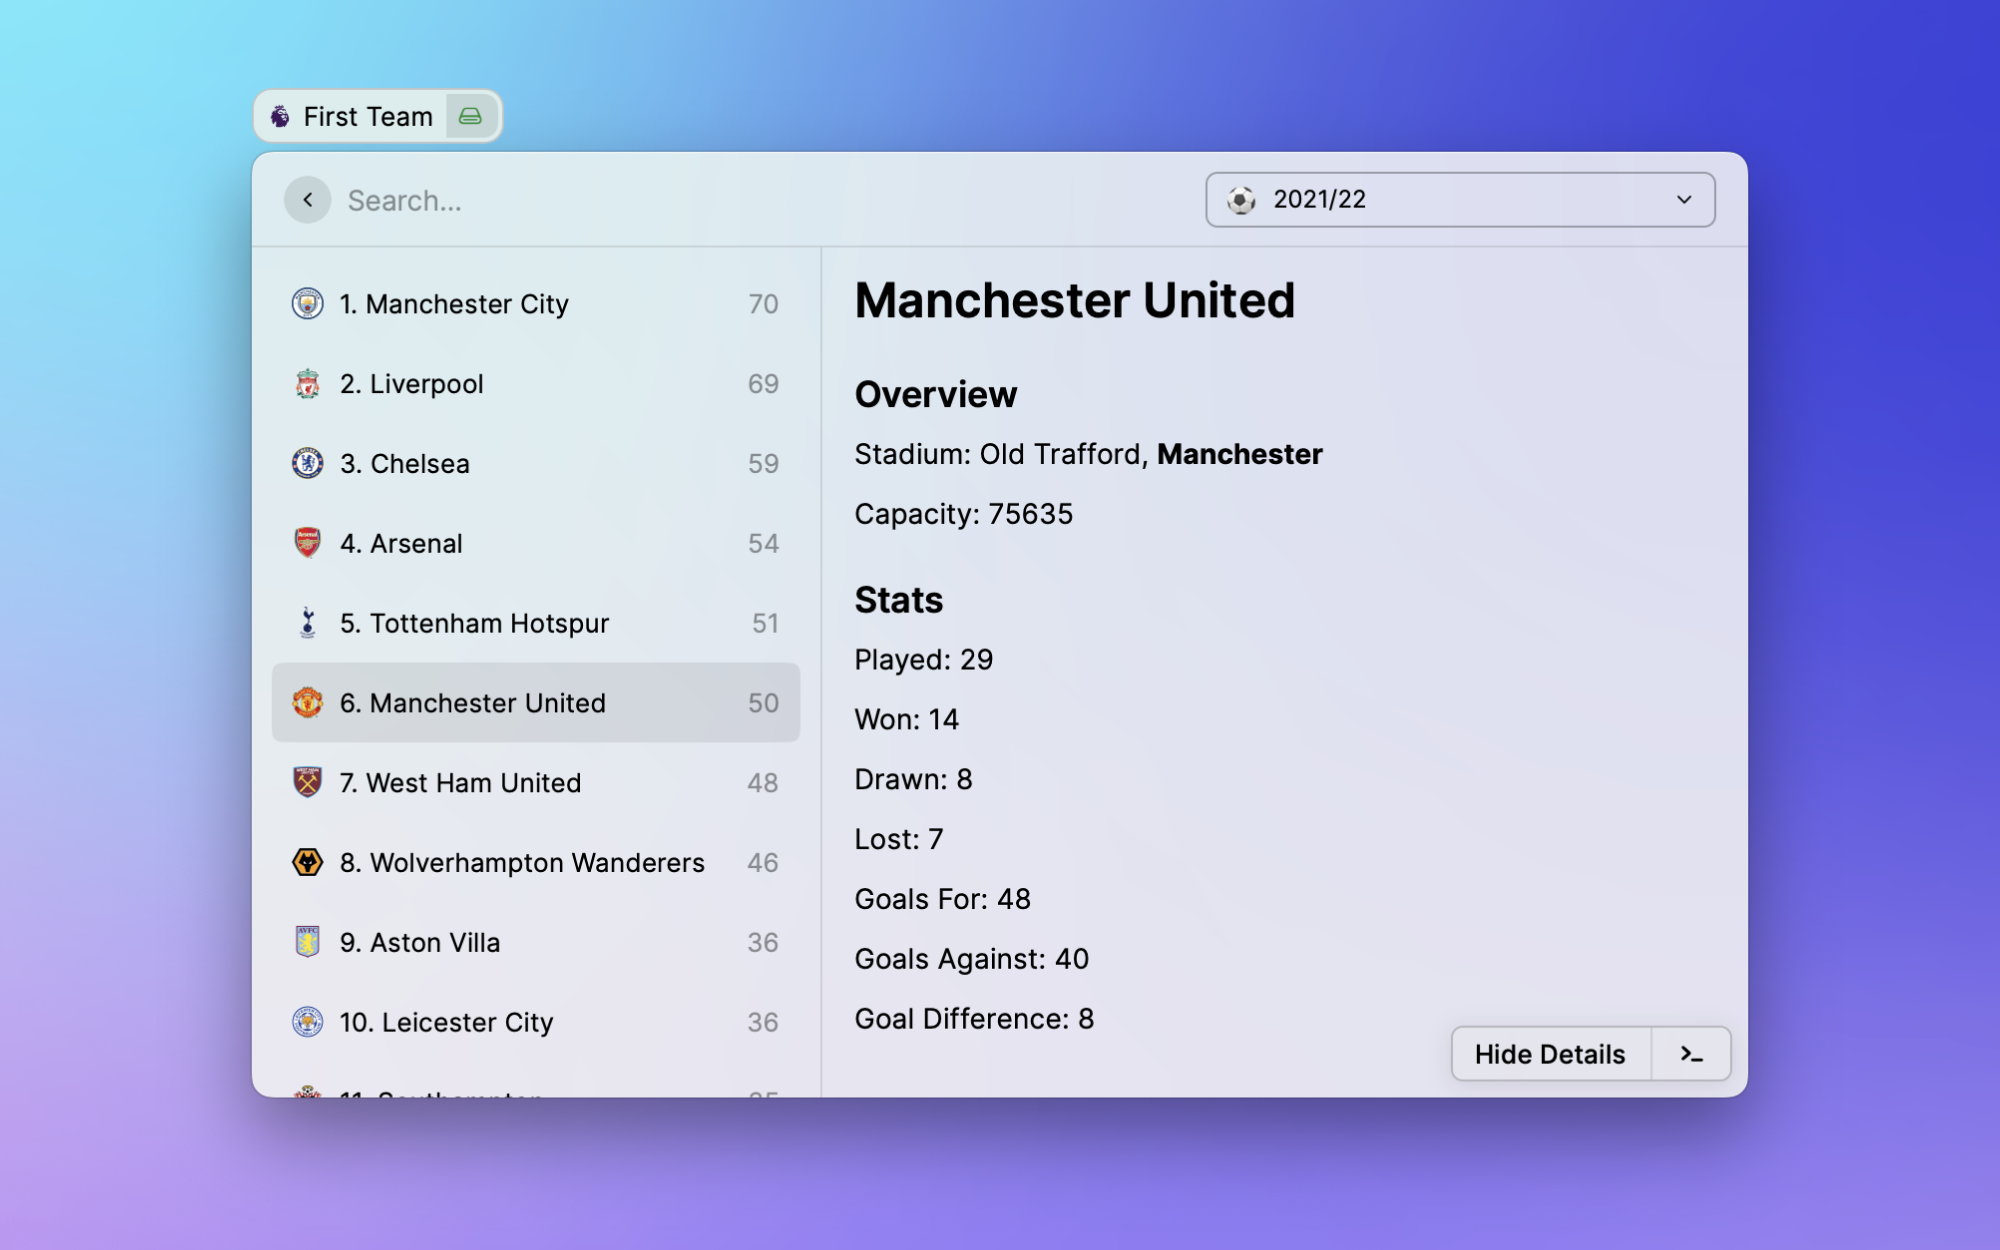
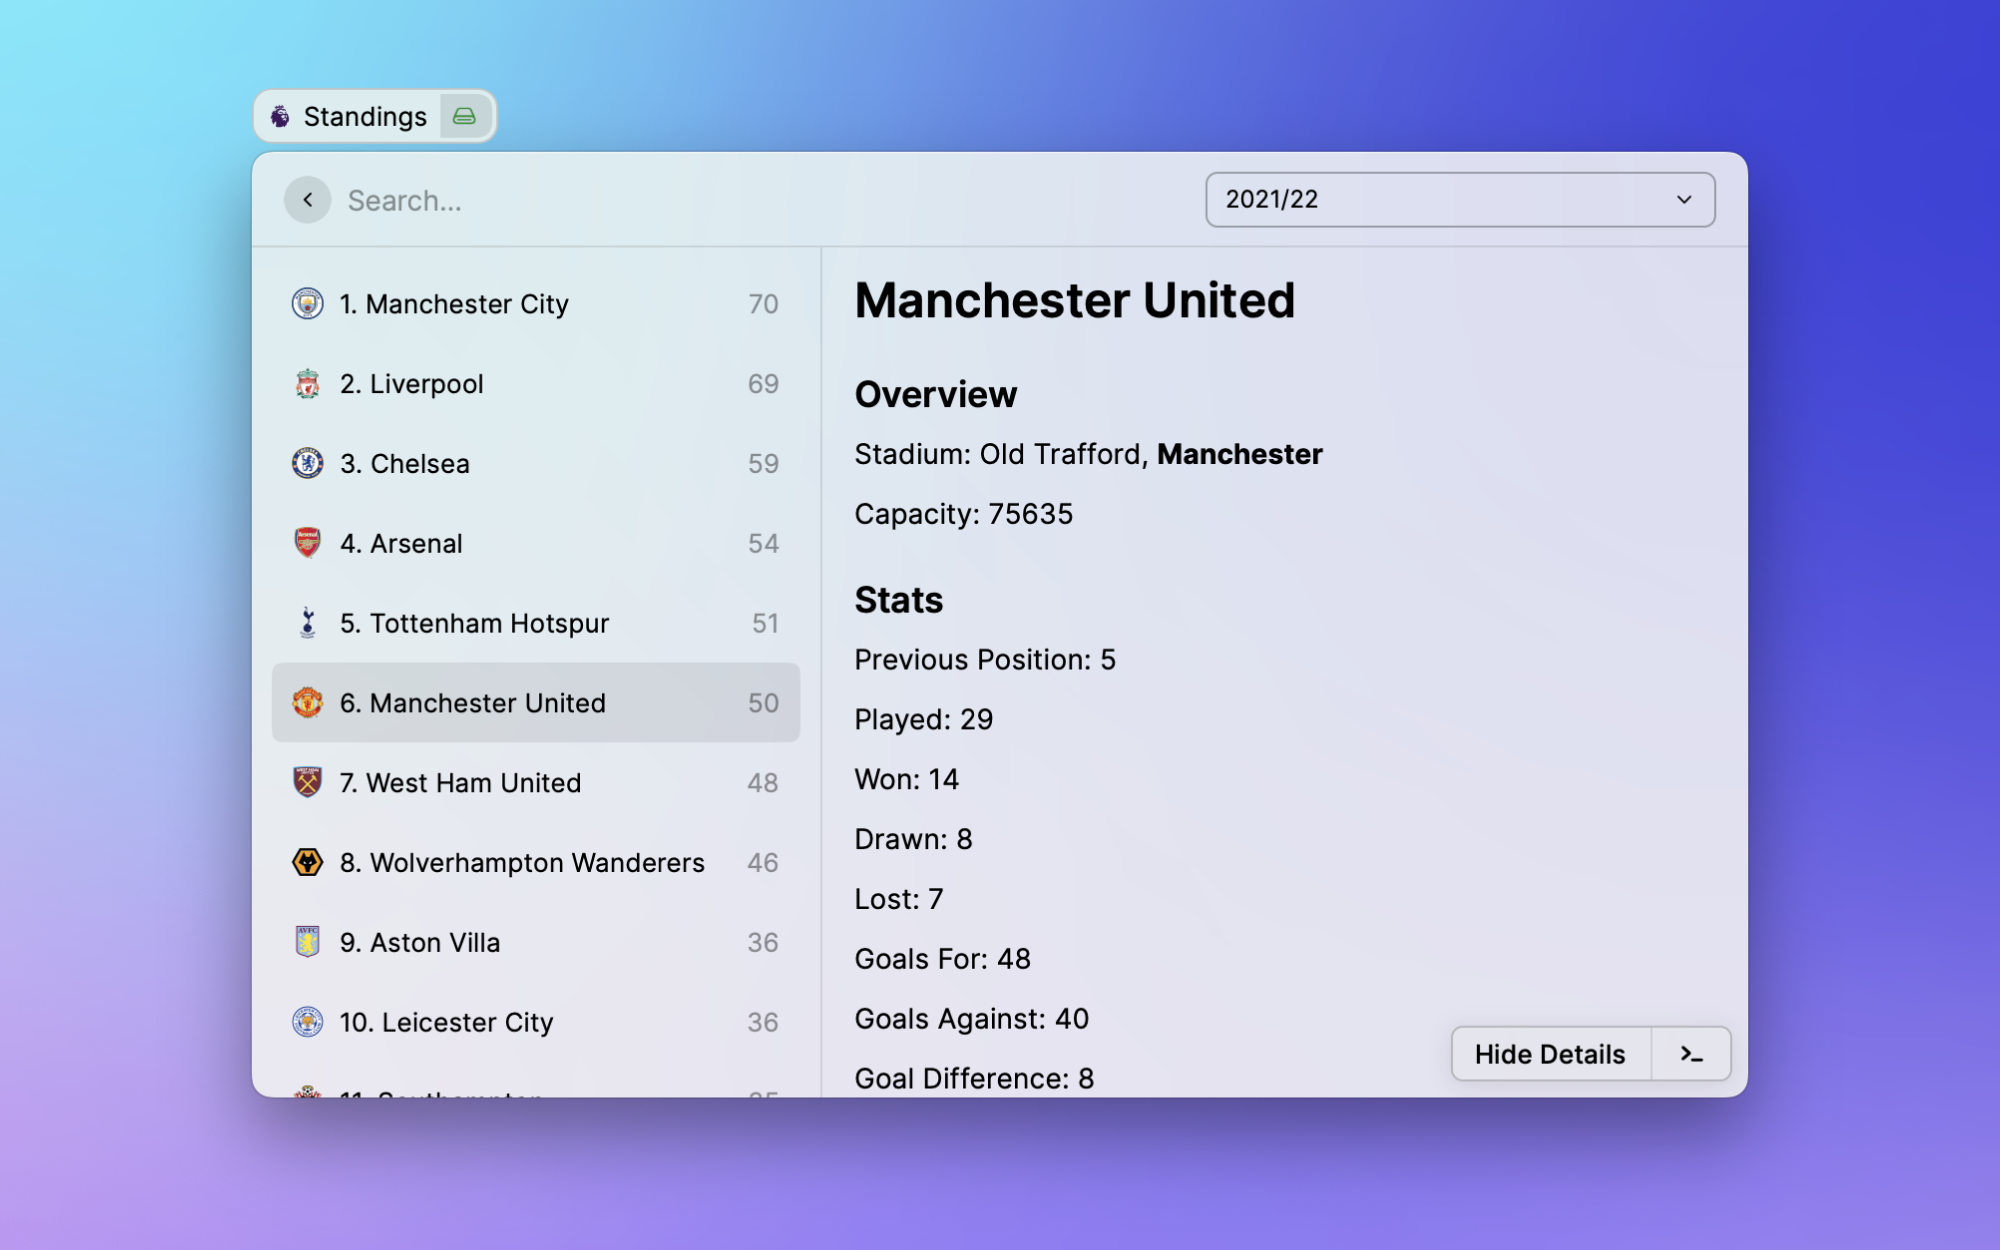
chore: update metadata

diff --git a/src/table.tsx b/src/table.tsx
@@ -20,7 +20,7 @@ export default function GetTables() {
   }, [season]);
 
   const club = (entry: Entry): json2md.DataObject => {
-    const { overall, team, ground, form, next } = entry;
+    const { overall, team, ground, form, next, startingPosition } = entry;
 
     const dataObject = [
       { h1: team.name },
@@ -30,6 +30,7 @@ export default function GetTables() {
       { h2: "Stats" },
       {
         p: [
+          `Previous Position: ${startingPosition}`,
           `Played: ${overall.played}`,
           `Won: ${overall.won}`,
           `Drawn: ${overall.drawn}`,
